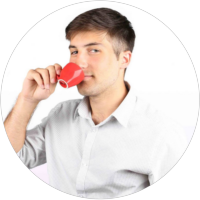
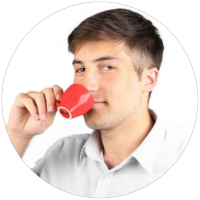
Update About Us (Mario)
*Image Zoomed
*Corporate --> Coorporate

diff --git a/resources/views/pages/aboutus.blade.php b/resources/views/pages/aboutus.blade.php
@@ -68,7 +68,7 @@
       </div>
       <div class="col-lg-3 col-md-3 col-sm-3 col-xs-12 text-center">
         <img class="img-responsive" style="margin:0 auto;" src="https://cooperacy.org/images/mario.png" alt="Mario Sabatino"><br>
-        <p>Mario Sabatino Riontino<br><i>Corporate Project</i></p>
+        <p>Mario Sabatino Riontino<br><i>Coorporate Project</i></p>
       </div>
       <div class="col-lg-3 col-md-3 col-sm-3 col-xs-12 text-center">
     <img class="img-responsive" style="margin:0 auto;" src="https://cooperacy.org/images/framba.png" alt="null"><br>
